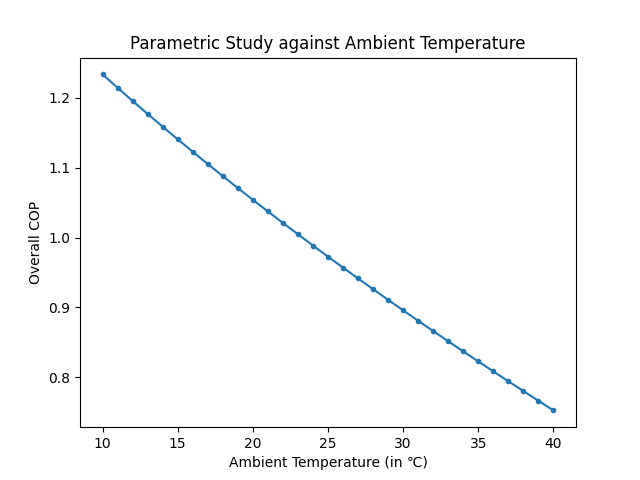
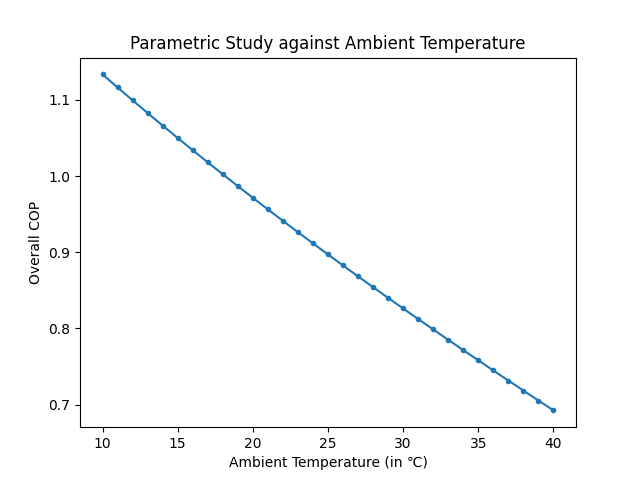
Final version for submission

diff --git a/model.py b/model.py
@@ -26,16 +26,18 @@ def simulate(Hfluid, Lfluid, T1, T5, T_amb, T_gap, T_overlap, n_isH, n_isL, Q_re
     h8 = h7
     P8 = P5
     s8, T8 = ST_from_PH(P8, h8, Hfluid)
-    Q8 = Q_from_PH(P8, h8, Lfluid)
+    Q8 = Q_from_PH(P8, h8, Hfluid)
 
     # Mass Flow Rates, Performance, COPs
     mdotL = Q_ref/(h1-h4)
     mdotH = (h2-h3)*mdotL/(h5-h8)
     W_compL = mdotL*(h2-h1)
     W_compH = mdotH*(h6-h5)
-    Q_out = mdotL*(h6-h7)
+    W_inNET = W_compH+W_compL
+    Q_out = mdotH*(h6-h7)
     copL, copH = (h1-h4)/(h2-h1), (h5-h8)/(h6-h5)
-    copNET = (copL*copH)/(1+copL+copH)
+    # copNET = (copL*copH)/(1+copL+copH)
+    copNET = Q_ref/W_inNET
 
     # Compile
     streams = pd.DataFrame(columns=['h', 's', 'T', 'P', 'Q', 'mdot'])
@@ -49,7 +51,7 @@ def simulate(Hfluid, Lfluid, T1, T5, T_amb, T_gap, T_overlap, n_isH, n_isL, Q_re
     streams.index.rename('Stream', inplace=True)
     results = pd.DataFrame([['LTC work input (in W)', W_compL],
                             ['HTC work input (in W)', W_compH],
-                            ['Total work input (in W)', W_compH+W_compL],
+                            ['Total work input (in W)', W_inNET],
                             ['Refrigeration effect (in W)', Q_ref],
                             ['Heat rejection (in W)', Q_out],
                             ['COP of LTC', copL],

diff --git a/main.py b/main.py
@@ -4,8 +4,8 @@ import parametrise
 # Assumptions (2 refrigerants, 4 temperatures, 4 qualities, 4 component parameters):
 Hfluid = 'R1234ze(E)'
 Lfluid = 'R23'
-T1, T5 = 208, 237                       # in K
-T_amb, T_gap, T_overlap = 298, 5, 5     # in K
+T1, T5 = 208, 240                       # in K
+T_amb, T_gap, T_overlap = 298, 10, 5    # in K
 n_isH, n_isL = 0.75, 0.6
 Q_ref = 40000                           # in W
 Q1, Q5 = 1, 1       # (ideal saturated vapour streams)
@@ -15,11 +15,15 @@ assumptions = (Hfluid, Lfluid, T1, T5, T_amb, T_gap, T_overlap, n_isH, n_isL, Q_
 
 # Simulation, Tabulation, Evaluation
 try:
+    print('\nFeeding assumptions to model...')
     streams, results = model.simulate(*assumptions)
-    print('Table of Streams, all in SI units (\'Q\' is dryness fraction):')
+    print('\nSimulation complete. Showing outputs...')
+    print('\nTable of Streams, all in SI units (\'Q\' is dryness fraction):')
     print(streams)
-    print('Table of Results:')
+    print('\nTable of Results:')
     print(results)
+    print('\nInitialising parametric study over T_amb...')
     parametrise.T_amb(*assumptions)
+    print('\nParametric study complete. Plot saved to \'paraTamb.png\'.')
 except:
     print('Simulation failed due to bad assumptions, try again!')

diff --git a/README.md b/README.md
@@ -3,7 +3,7 @@
 This repository contains the files used by Group 3 in part 2 of the Course Project for EN 317 (Thermo-Fluid Devices).
 ```
 cascade-ref-simulation
-├── README.md
+├── README.md         <- This file (added for the reader's convenience).
 |
 ├── main.py           <- The only executable file.
 |                        Sets all the assumed input parameters.
@@ -16,8 +16,11 @@ cascade-ref-simulation
 ├── parametrise.py    <- Varies the ambient temperature and plots the change in COP.
 |                        Invoked by executing main.py.
 |
-└── shorthands.py     <- Syntactical shortening of CoolProp functions.
-                         Invoked inside model.py.
+├── shorthands.py     <- Syntactical shortening of CoolProp functions.
+|                        Invoked inside model.py.
+|
+└── paraTamb.png      <- Graphical output of the parametric study.
+                         Generated by invoking parametrise.py.
 ```
 
 **Python libraries needed:** `CoolProp`, `matplotlib`, `numpy`, `pandas`
